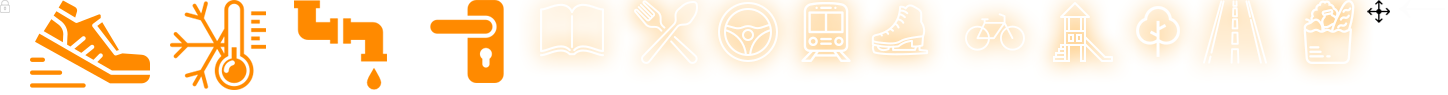
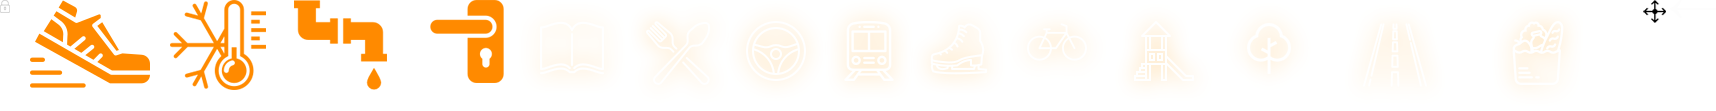
add intelect and servicces sections

Changed region(s): [[0.0, 0.0, 0.9945, 0.9474], [0.9012, 0.6737, 0.9323, 0.7158]]

diff --git a/index.html b/index.html
@@ -71,5 +71,115 @@
 		<button class="gallery__button gallery__button_right"></button>
 	</section>
 	<!-- end gallery -->
+
+	<!-- start intelect -->
+	<section class="intelect" id="intelect">
+		<div class="container">
+			<h2 class="intelect__title">
+				Интеллект дома 
+			</h2>
+			<p class="intelect__text">
+				Управляйте своим пространством!
+			</p>
+			<div class="intelect__cards d-flex">
+				<div class="intelect__card intelect__card_move d-flex">
+					<p class="intelect__card-info">
+						Датчики движения
+					</p>
+				</div>
+				<div class="intelect__card intelect__card_temp d-flex">
+					<p class="intelect__card-info">
+						Датчики температуры
+					</p>
+				</div>
+				<div class="intelect__card intelect__card_water d-flex">
+					<p class="intelect__card-info">
+						Датчики протечек
+					</p>
+				</div>
+				<div class="intelect__card intelect__card_windows d-flex">
+					<p class="intelect__card-info">
+						Датчики дверей и окон
+					</p>
+				</div>
+			</div>
+		</div>
+	</section>
+	<!-- end intelect -->
+
+	<!-- start servicess -->
+	<section class="servicess" id="servicess">
+		<div class="container">
+			<h2 class="servicess__title">
+				Идеальное окружение
+			</h2>
+			<p class="servicess__subtitle">
+				Динамично развивающий зелёный район!
+			</p>
+			<div class="servicess__cards d-flex">
+				<div class="servicess__card">
+					<span class="servicess__icon servicess__icon_book"></span>
+					<div class="servicess__text">
+						Школа и детский сад
+					</div>
+				</div>
+				<div class="servicess__card">
+					<span class="servicess__icon servicess__icon_restaurant"></span>
+					<div class="servicess__text">
+						Итальянский ресторан
+					</div>
+				</div>
+				<div class="servicess__card">
+					<span class="servicess__icon servicess__icon_parking"></span>
+					<div class="servicess__text">
+						Подземный паркинг
+					</div>
+				</div>
+				<div class="servicess__card">
+					<span class="servicess__icon servicess__icon_train"></span>
+					<div class="servicess__text">
+						6 минут до новой станции метро
+					</div>
+				</div>
+				<div class="servicess__card">
+					<span class="servicess__icon servicess__icon_skate"></span>
+					<div class="servicess__text">
+						Скейт-парк и ледовый каток
+					</div>
+				</div>
+				<div class="servicess__card">
+					<span class="servicess__icon servicess__icon_bike"></span>
+					<div class="servicess__text">
+						Велосипедные дорожки
+					</div>
+				</div>
+				<div class="servicess__card">
+					<span class="servicess__icon servicess__icon_kids"></span>
+					<div class="servicess__text">
+						Детские площадки
+					</div>
+				</div>
+				<div class="servicess__card">
+					<span class="servicess__icon servicess__icon_park"></span>
+					<div class="servicess__text">
+						Эко-парк для прогулок
+					</div>
+				</div>
+				<div class="servicess__card">
+					<span class="servicess__icon servicess__icon_road"></span>
+					<div class="servicess__text">
+						Удобный съезд на ЗСД
+					</div>
+				</div>
+				<div class="servicess__card">
+					<span class="servicess__icon servicess__icon_shops"></span>
+					<div class="servicess__text">
+						Магазины в пешей доступности
+					</div>
+				</div>
+			</div>
+		</div>
+	</section>
+	<!-- end servicess -->
 </body>
 </html>

diff --git a/css/main.css b/css/main.css
@@ -391,3 +391,194 @@ button:active {
 }
 
 /*gallery end*/
+
+/*Intelect Start*/
+.intelect {
+	padding: 150px 0 155px;
+}
+
+.intelect__title {
+	text-align: center;
+}
+
+.intelect__text {
+	margin: 30px 0 80px;
+	text-align: center;
+	font-size: 1.5rem;
+}
+
+.intelect__cards {
+	justify-content: space-between;
+}
+
+.intelect__card {
+	width: 330px;
+	height: 162px;
+	position: relative;
+	-ms-align-items: center;
+	align-items: center;
+}
+.intelect__card::after {
+	content: '';
+	display: block;
+	position: absolute;
+	box-sizing: border-box;
+	width: 194px;
+	height: 162px;
+	border: 10px solid #e6e6e6;
+	left: 31px;
+	top: 0;
+	z-index: -1;
+}
+
+.intelect__card::before {
+	content: '';
+	display: block;
+	width: 120px;
+	height: 90px;
+	position: absolute;
+	left: 0;
+	top: 50%;
+	transform: translateY(-50%);
+}
+
+.intelect__card_move::before {
+	
+	background: url(../img/icons-1.png) no-repeat left -30px top;
+}
+
+.intelect__card_temp::before {
+	background: url(../img/icons-1.png) no-repeat left -170px top;
+}
+
+.intelect__card_water::before {
+	background: url(../img/icons-1.png) no-repeat left -290px top;
+}
+
+.intelect__card_windows::before {
+	background: url(../img/icons-1.png) no-repeat left -430px top;
+	width: 90px;
+}
+
+.intelect__card-info {
+	padding-left: 145px;
+	font-size: 1.375rem;
+	font-family: 'Cent-BT-Bold', sans-serif;
+}
+
+/*Intelect End*/
+/*Servicess End*/
+
+.servicess {
+	padding: 170px 0 155px;
+	background: url(../img/servicess-bg.jpg) no-repeat center center;
+	background-size: cover;
+	color: #fff;
+	text-align: center;
+}
+
+.servicess__title {
+	color: #fff;
+}
+
+.servicess__subtitle {
+	margin: 30px 0 80px;
+	text-align: center;
+	font-size: 1.5rem;
+}
+
+.servicess__cards {
+	flex-wrap: wrap;
+	margin: 0 auto;
+}
+
+.servicess__card {
+	border: 1px solid rgba(255, 255, 255, 0.6);
+	width: 20%;
+	height: 290px;
+	position: relative;
+}
+
+.servicess__card::before {
+		content: '';
+	display: block;
+	position: absolute;
+	background: rgba(255, 255, 255, 0);
+	transition: all 0.8s ease;
+}
+
+.servicess__card:hover::before {
+	width: 80%;
+	height: 80%;
+	left: 10%;
+	top: 10%;
+	background: rgba(255, 255, 255, 0.32);
+}
+
+.servicess__icon {
+	display: block;
+	width: 110px;
+	height: 110px;
+	margin: 40px auto 0;
+	position: relative;
+}
+
+.servicess__icon::after {
+	content: '';
+	display: block;
+	position: absolute;
+	width: 1px;
+	height: 20px;
+	bottom: -10px;
+	left: 50%;
+	background: #fff;
+}
+
+.servicess__icon_book {
+	background: url(../img/icons-1.png) no-repeat left -515px top 10px;
+}
+
+.servicess__icon_restaurant {
+	background: url(../img/icons-1.png) no-repeat left -625px top;
+}
+
+.servicess__icon_parking {
+	background: url(../img/icons-1.png) no-repeat left -720px top;
+}
+
+.servicess__icon_train {
+	background: url(../img/icons-1.png) no-repeat left -820px top;
+	width: 97px;
+}
+
+.servicess__icon_skate {
+	background: url(../img/icons-1.png) no-repeat left -905px top 5px;
+}
+
+.servicess__icon_bike {
+	background: url(../img/icons-1.png) no-repeat left -1003px top 15px;
+}
+
+.servicess__icon_kids {
+	background: url(../img/icons-1.png) no-repeat left -1100px top;
+}
+
+.servicess__icon_park {
+	background: url(../img/icons-1.png) no-repeat left -1214px top 5px;
+}
+
+.servicess__icon_road {
+	background: url(../img/icons-1.png) no-repeat left -1340px top;
+}
+
+.servicess__icon_shops {
+	background: url(../img/icons-1.png) no-repeat left -1485px top;
+}
+
+.servicess__text {
+	font-size: 1.25rem;
+	max-width: 60%;
+	margin: 23px auto 0;
+}
+
+/*Servicess Start*/
